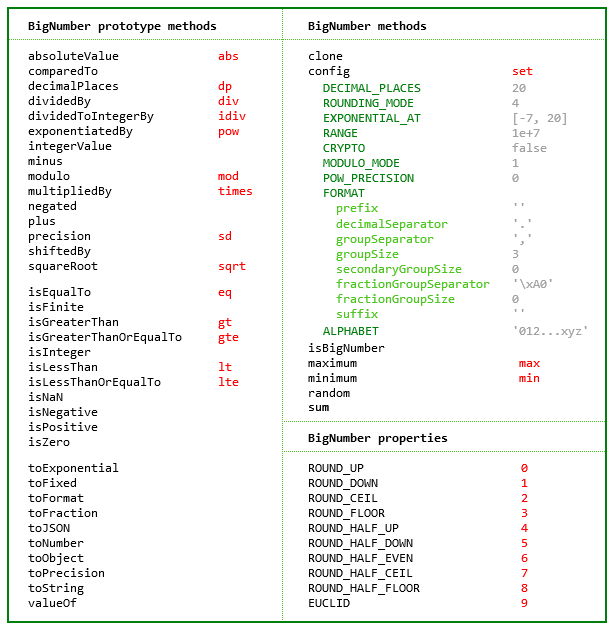
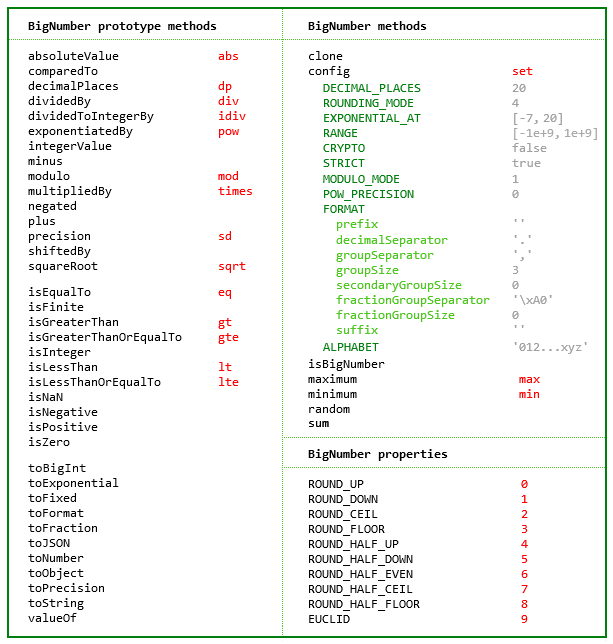
v11.0.0

diff --git a/index.html b/index.html
@@ -58,7 +58,7 @@ li span{float:right;margin-right:10px;color:#c0c0c0}
 
   <div class="nav">
 
-    <b>v10.0</b>
+    <b>v11.0</b>
 
 	<a class='nav-title' href="#">API</a>
 
@@ -78,6 +78,7 @@ li span{float:right;margin-right:10px;color:#c0c0c0}
           <li><a href="#exponential-at">EXPONENTIAL_AT</a></li>
           <li><a href="#range"         >RANGE</a></li>
           <li><a href="#crypto"        >CRYPTO</a></li>
+          <li><a href="#strict"        >STRICT</a></li>
           <li><a href="#modulo-mode"   >MODULO_MODE</a></li>
           <li><a href="#pow-precision" >POW_PRECISION</a></li>
           <li><a href="#format"        >FORMAT</a></li>
@@ -166,7 +167,8 @@ li span{float:right;margin-right:10px;color:#c0c0c0}
 
     <p>A JavaScript library for arbitrary-precision arithmetic.</p>
     <p><a href="https://github.com/MikeMcl/bignumber.js">Hosted on GitHub</a>. </p>
-      <i>
+    <p>
+ 	  <i>
         The library is incorporated into this page, so it should be available in the console now.
       </i>
     </p>
@@ -241,13 +243,21 @@ new BigNumber('-0b10110100.1')             // '-180.5'
 new BigNumber('ff.8', 16)                  // '255.5'
 new BigNumber('0xff.8')                    // '255.5'</pre>
     <p>
+      String values may contain underscores as numeric separators.
+      Each underscore must be between two digits.
+    </p>
+    <pre>
+new BigNumber('1_000_000.000_5')           // '1000000.0005'
+new BigNumber('0xff_ff')                   // '65535'
+new BigNumber('1010_1111', 2)              // '175'</pre>
+    <p>
       If a base is specified, <code>n</code> is converted to a decimal BigNumber value rounded
       according to the current <a href='#decimal-places'><code>DECIMAL_PLACES</code></a> and
       <a href='#rounding-mode'><code>ROUNDING_MODE</code></a> settings.
     </p>
     <pre>BigNumber.config({ DECIMAL_PLACES: 5 })
 new BigNumber('xy.z', 36)                  // '1222.97222'</pre>
-    <p>An error is thrown if <code>base</code> is invalid. See <a href='#Errors'>Errors</a>.</p>
+    <p>An exception is thrown if <code>base</code> is invalid. See <a href='#Errors'>Errors</a>.</p>
     <p>
       There is no limit to the number of digits of a value of type <em>string</em> (other than
       that of JavaScript's maximum array size). See <a href='#range'><code>RANGE</code></a> to set
@@ -256,11 +266,16 @@ new BigNumber('xy.z', 36)                  // '1222.97222'</pre>
     <pre>
 new BigNumber('5032485723458348569331745.33434346346912144534543')
 new BigNumber('4.321e10000000')</pre>
-    <p>An error is thrown if <code>n</code> is invalid. See <a href='#Errors'>Errors</a>.</p>
+    <p>
+      If <code>n</code> is a value of an unsupported type or not a valid numeric value then a
+      BigNumber Error is thrown, unless <a href='#strict'>STRICT</a> is <code>false</code>,
+      whereupon a BigNumber with value <code>NaN</code> is returned.
+      See <a href='#strict'>STRICT</a> and <a href='#Errors'>Errors</a>.
+    </p>
     <pre>
-new BigNumber('.1*')                       // '[BigNumber Error] Not a number: .1*'
-new BigNumber('blurgh')                    // '[BigNumber Error] Not a number: blurgh'
-new BigNumber('9', 2)                      // '[BigNumber Error] Not a base 2 number: 9'</pre>
+new BigNumber('.1*')            // '[BigNumber Error] Not a number: .1*'
+new BigNumber('blurgh')         // '[BigNumber Error] Not a number: blurgh'
+new BigNumber('9', 2)           // '[BigNumber Error] Not a base 2 number: 9'</pre>
     <p>
       In advanced usage, a BigNumber can also be created from a plain object with <code>c</code>,
       <code>e</code> and <code>s</code> properties, representing its coefficient, exponent and
@@ -491,6 +506,41 @@ BigNumber.random()              // 0.54340758610486147524</pre>
 
 
 
+      <dt id="strict"><code><b>STRICT</b></code></dt>
+      <dd>
+        <i>boolean</i>: <code>true</code> or <code>false</code>.<br />
+        Default value: <code>true</code>
+      </dd>
+      <dd>
+        The value that determines whether an exception is thrown or a BigNumber with value
+        <code>NaN</code> is returned when an invalid value is passed to the constructor
+        or a method as the value of a BigNumber.
+      </dd>
+      <dd>
+        If <code>STRICT</code> is <code>true</code> then a BigNumber Error is thrown if the
+        value is not of type <code>BigNumber</code>, <code>number</code>, <code>string</code>,
+        or <code>BigInt</code>, or if the value is a string that is not a valid numeric value.
+      </dd>
+      <dd>
+        If <code>STRICT</code> is <code>false</code> then a BigNumber with value
+        <code>NaN</code> is returned if the value is not a valid numeric value.
+        Types unsupported when <code>STRICT</code> is <code>true</code> are first
+        converted to a string.
+      </dd>
+      <dd>  
+        See <a href='#Errors'>Errors</a>.  
+      </dd>
+      <dd>
+      <pre>BigNumber.config({ STRICT: false })
+x = new BigNumber('blurgh')
+x.toString()                    // 'NaN'
+
+BigNumber.config({ STRICT: true })
+new BigNumber('blurgh')         // '[BigNumber Error] Not a number: blurgh'</pre>
+      </dd>
+
+
+
       <dt id="modulo-mode"><code><b>MODULO_MODE</b></code></dt>
       <dd>
         <i>number</i>: integer, <code>0</code> to <code>9</code> inclusive<br />
@@ -655,6 +705,7 @@ BigNumber.config({
   EXPONENTIAL_AT: [-10, 20],
   RANGE: [-500, 500],
   CRYPTO: true,
+  STRICT: false,
   MODULO_MODE: BigNumber.ROUND_FLOOR,
   POW_PRECISION: 80,
   FORMAT: {
@@ -1655,12 +1706,17 @@ x.toFormat(3, BigNumber.ROUND_UP, fmt)    // '=> 12.34.56.789,124'</pre>
     <p>
       Returns an array of two BigNumbers representing the value of this BigNumber as a simple
       fraction with an integer numerator and an integer denominator. The denominator will be a
-      positive non-zero value less than or equal to <code>maximum_denominator</code>.
+      positive value less than or equal to <code>maximum_denominator</code>.
     </p>
     <p>
       If a <code>maximum_denominator</code> is not specified, or is <code>null</code> or
       <code>undefined</code>, the denominator will be the lowest value necessary to represent the
       number exactly.
+    </p>
+    <p>
+      If the value of this BigNumber is <code>Infinity</code>, <code>-Infinity</code>, or
+      <code>NaN</code>, the returned fraction is <code>[1, 0]</code>, <code>[-1, 0]</code>, or
+      <code>[0, 0]</code> respectively.
     </p>
     <p>
       Throws if <code>maximum_denominator</code> is invalid. See <a href='#Errors'>Errors</a>.
@@ -1675,7 +1731,12 @@ pi.toFraction(100000)           // '312689, 99532'
 pi.toFraction(10000)            // '355, 113'
 pi.toFraction(100)              // '311, 99'
 pi.toFraction(10)               // '22, 7'
-pi.toFraction(1)                // '3, 1'</pre>
+pi.toFraction(1)                // '3, 1'
+
+y = new BigNumber('-Infinity')
+y.toFraction()                  // '-1, 0'
+z = new BigNumber(NaN)
+z.toFraction()                  // '0, 0'</pre>
 
 
 
@@ -1935,9 +1996,9 @@ y.s                             // -1</pre>
 
 
     <h4 id='Errors'>Errors</h4>
-    <p>The table below shows the errors that are thrown.</p>
+    <p>The table below shows the exceptions that are thrown.</p>
     <p>
-      The errors are generic <code>Error</code> objects whose message begins
+      The exceptions are generic <code>Error</code> objects whose message begins
       <code>'[BigNumber Error]'</code>.
     </p>
     <table class='error-table'>
@@ -1979,7 +2040,7 @@ y.s                             // -1</pre>
         <td>String expected</td>
       </tr>
       <tr>
-        <td>Invalid argument</td>
+        <td>BigNumber, string, number, or BigInt expected</td>
       </tr>
       <tr>
         <td><code>clone</code></td>
@@ -2214,11 +2275,9 @@ z = x.multiply(y)                 // 4.1400000</pre>
   </div>
 
   <script>
-  /* bignumber.js v10.0.0 https://github.com/MikeMcl/bignumber.js/LICENCE.md (minified using terser v5.46.0) */
-  !function(){var e=function e(v){var N,O,y,b=M.prototype={constructor:M,toString:null,valueOf:null},E=new M(1),A=20,R=4,S=-7,P=21,_=-1e7,L=1e7,x=!1,T=1,I=0,D={prefix:"",groupSize:3,secondaryGroupSize:0,groupSeparator:",",decimalSeparator:".",fractionGroupSize:0,fractionGroupSeparator:" ",suffix:""},C="0123456789abcdefghijklmnopqrstuvwxyz";function M(e,n){var t,o,u,f,c,l,a,h,g=this;if(!(g instanceof M))return new M(e,n);if(h=typeof e,null==n){if(B(e))return g.s=e.s,void(!e.c||e.e>L?g.c=g.e=null:e.e<_?g.c=[g.e=0]:(g.e=e.e,g.c=e.c.slice()));if("number"==h){if(0*e!=0)return g.s=isNaN(e)?null:e<0?-1:1,void(g.c=g.e=null);if(g.s=1/e<0?(e=-e,-1):1,e===~~e){for(f=0,c=e;c>=10;c/=10,f++);return void(f>L?g.c=g.e=null:(g.e=f,g.c=[e]))}a=String(e)}else{if("string"==h){if(a=e,!r.test(a))return y(g,a)}else{if("bigint"!=h)throw Error(i+"Invalid argument: "+e);a=String(e)}g.s=45==a.charCodeAt(0)?(a=a.slice(1),-1):1}(f=a.indexOf("."))>-1&&(a=a.replace(".","")),(c=a.search(/e/i))>0?(f<0&&(f=c),f+=+a.slice(c+1),a=a.substring(0,c)):f<0&&(f=a.length)}else{if("string"!=h)throw Error(i+"String expected: "+e);for(p(n,2,C.length,"Base"),a=e,g.s=45===a.charCodeAt(0)?(a=a.slice(1),-1):1,t=C.slice(0,n),f=c=0,l=a.length;c<l;c++)if(t.indexOf(o=a.charAt(c))<0){if("."==o){if(c>f){f=l;continue}}else if(!u&&(a==a.toUpperCase()&&(a=a.toLowerCase())||a==a.toLowerCase()&&(a=a.toUpperCase()))){u=!0,c=-1,f=0;continue}return y(g,e,n)}(f=(a=O(a,n,10,g.s)).indexOf("."))>-1?a=a.replace(".",""):f=a.length}for(c=0;48===a.charCodeAt(c);c++);for(l=a.length;48===a.charCodeAt(--l););if(a=a.slice(c,++l))if(l-=c,(f=f-c-1)>L)g.c=g.e=null;else if(f<_)g.c=[g.e=0];else{if(g.e=f,g.c=[],c=(f+1)%s,f<0&&(c+=s),c<l){for(c&&g.c.push(+a.slice(0,c)),l-=s;c<l;)g.c.push(+a.slice(c,c+=s));c=s-(a=a.slice(c)).length}else c-=l;for(;c--;a+="0");g.c.push(+a)}else g.c=[g.e=0]}function U(e,r,n,t){var i,o,s,u,f;if(null==n?n=R:p(n,0,8),!e.c)return e.toString();if(i=e.c[0],s=e.e,null==r)f=h(e.c),f=1==t||2==t&&(s<=S||s>=P)?d(f,s):m(f,s,"0");else if(o=(e=j(new M(e),r,n)).e,u=(f=h(e.c)).length,1==t||2==t&&(r<=o||o<=S)){for(;u<r;f+="0",u++);f=d(f,o)}else if(r-=s+(2===t&&o>s),f=m(f,o,"0"),o+1>u){if(--r>0)for(f+=".";r--;f+="0");}else if((r+=o-u)>0)for(o+1==u&&(f+=".");r--;f+="0");return e.s<0&&i?"-"+f:f}function B(e){return e instanceof M||!!e&&!0===e._isBigNumber}function F(e,r){for(var n,t,i=1,o=new M(e[0]);i<e.length;i++)(!(t=new M(e[i])).s||(n=g(o,t))===r||0===n&&o.s===r)&&(o=t);return o}function G(e,r,n){for(var t=1,i=r.length;!r[--i];r.pop());for(i=r[0];i>=10;i/=10,t++);return(n=t+n*s-1)>L?e.c=e.e=null:n<_?e.c=[e.e=0]:(e.e=n,e.c=r),e}function j(e,r,i,u){var c,l,a,h,g,p,w,d=e.c,m=f;if(d){e:{for(c=1,h=d[0];h>=10;h/=10,c++);if((l=r-c)<0)l+=s,a=r,g=d[p=0],w=t(g/m[c-a-1]%10);else if((p=n((l+1)/s))>=d.length){if(!u)break e;for(;d.length<=p;d.push(0));g=w=0,c=1,a=(l%=s)-s+1}else{for(g=h=d[p],c=1;h>=10;h/=10,c++);w=(a=(l%=s)-s+c)<0?0:t(g/m[c-a-1]%10)}if(u=u||r<0||null!=d[p+1]||(a<0?g:g%m[c-a-1]),u=i<4?(w||u)&&(0==i||i==(e.s<0?3:2)):w>5||5==w&&(4==i||u||6==i&&(l>0?a>0?g/m[c-a]:0:d[p-1])%10&1||i==(e.s<0?8:7)),r<1||!d[0])return d.length=0,u?(r-=e.e+1,d[0]=m[(s-r%s)%s],e.e=-r||0):d[0]=e.e=0,e;if(0==l?(d.length=p,h=1,p--):(d.length=p+1,h=m[s-l],d[p]=a>0?t(g/m[c-a]%m[a])*h:0),u)for(;;){if(0==p){for(l=1,a=d[0];a>=10;a/=10,l++);for(a=d[0]+=h,h=1;a>=10;a/=10,h++);l!=h&&(e.e++,d[0]==o&&(d[0]=1));break}if(d[p]+=h,d[p]!=o)break;d[p--]=0,h=1}for(l=d.length;0===d[--l];d.pop());}e.e>L?e.c=e.e=null:e.e<_&&(e.c=[e.e=0])}return e}function k(e){var r,n=e.e;return null===n?e.toString():(r=h(e.c),r=n<=S||n>=P?d(r,n):m(r,n,"0"),e.s<0?"-"+r:r)}M.clone=e,M.ROUND_UP=0,M.ROUND_DOWN=1,M.ROUND_CEIL=2,M.ROUND_FLOOR=3,M.ROUND_HALF_UP=4,M.ROUND_HALF_DOWN=5,M.ROUND_HALF_EVEN=6,M.ROUND_HALF_CEIL=7,M.ROUND_HALF_FLOOR=8,M.EUCLID=9,M.config=M.set=function(e){var r,n;if(null!=e){if("object"!=typeof e)throw Error(i+"Object expected: "+e);if(e.hasOwnProperty(r="DECIMAL_PLACES")&&(p(n=e[r],0,l,r),A=n),e.hasOwnProperty(r="ROUNDING_MODE")&&(p(n=e[r],0,8,r),R=n),e.hasOwnProperty(r="EXPONENTIAL_AT")&&((n=e[r])&&n.pop?(p(n[0],-l,0,r),p(n[1],0,l,r),S=n[0],P=n[1]):(p(n,-l,l,r),S=-(P=n<0?-n:n))),e.hasOwnProperty(r="RANGE"))if((n=e[r])&&n.pop)p(n[0],-l,-1,r),p(n[1],1,l,r),_=n[0],L=n[1];else{if(p(n,-l,l,r),!n)throw Error(i+r+" cannot be zero: "+n);_=-(L=n<0?-n:n)}if(e.hasOwnProperty(r="CRYPTO")){if((n=e[r])!==!!n)throw Error(i+r+" not true or false: "+n);if(n){if("undefined"==typeof crypto||!crypto||!crypto.getRandomValues&&!crypto.randomBytes)throw x=!n,Error(i+"crypto unavailable");x=n}else x=n}if(e.hasOwnProperty(r="MODULO_MODE")&&(p(n=e[r],0,9,r),T=n),e.hasOwnProperty(r="POW_PRECISION")&&(p(n=e[r],0,l,r),I=n),e.hasOwnProperty(r="FORMAT")){if("object"!=typeof(n=e[r]))throw Error(i+r+" not an object: "+n);D=n}if(e.hasOwnProperty(r="ALPHABET")){if("string"!=typeof(n=e[r])||/^.?$|[+\-.\s]|(.).*\1/.test(n))throw Error(i+r+" invalid: "+n);C=n}}return{DECIMAL_PLACES:A,ROUNDING_MODE:R,EXPONENTIAL_AT:[S,P],RANGE:[_,L],CRYPTO:x,MODULO_MODE:T,POW_PRECISION:I,FORMAT:D,ALPHABET:C}},M.isBigNumber=function(e){if(!B(e))return!1;var r,n,i=e.c,u=e.e,f=e.s;if("[object Array]"!={}.toString.call(i))return null===i&&null===u&&(null===f||1===f||-1===f);if(1!==f&&-1!==f||u<-l||u>l||u!==t(u))return!1;if(0===i[0])return 0===u&&1===i.length;if((r=(u+1)%s)<1&&(r+=s),String(i[0]).length!==r)return!1;for(r=0;r<i.length;r++)if((n=i[r])<0||n>=o||n!==t(n))return!1;return 0!==n},M.maximum=M.max=function(){return F(arguments,-1)},M.minimum=M.min=function(){return F(arguments,1)},M.random=function(){var e=9007199254740992,r=Math.random()*e&2097151?function(){return t(Math.random()*e)}:function(){return 8388608*(1073741824*Math.random()|0)+(8388608*Math.random()|0)};return function(e){var o,u,c,a,h,g=0,w=[],d=new M(E);if(null==e?e=A:p(e,0,l),a=n(e/s),x)if(crypto.getRandomValues){for(o=crypto.getRandomValues(new Uint32Array(a*=2));g<a;)(h=131072*o[g]+(o[g+1]>>>11))>=9e15?(u=crypto.getRandomValues(new Uint32Array(2)),o[g]=u[0],o[g+1]=u[1]):(w.push(h%1e14),g+=2);g=a/2}else{if(!crypto.randomBytes)throw x=!1,Error(i+"crypto unavailable");for(o=crypto.randomBytes(a*=7);g<a;)(h=281474976710656*(31&o[g])+1099511627776*o[g+1]+4294967296*o[g+2]+16777216*o[g+3]+(o[g+4]<<16)+(o[g+5]<<8)+o[g+6])>=9e15?crypto.randomBytes(7).copy(o,g):(w.push(h%1e14),g+=7);g=a/7}if(!x)for(;g<a;)(h=r())<9e15&&(w[g++]=h%1e14);for(a=w[--g],e%=s,a&&e&&(h=f[s-e],w[g]=t(a/h)*h);0===w[g];w.pop(),g--);if(g<0)w=[c=0];else{for(c=-1;0===w[0];w.splice(0,1),c-=s);for(g=1,h=w[0];h>=10;h/=10,g++);g<s&&(c-=s-g)}return d.e=c,d.c=w,d}}(),M.sum=function(){for(var e=1,r=arguments,n=new M(r[0]);e<r.length;)n=n.plus(r[e++]);return n},O=function(){var e="0123456789";function r(e,r,n,t){for(var i,o,s=[0],u=0,f=e.length;u<f;){for(o=s.length;o--;s[o]*=r);for(s[0]+=t.indexOf(e.charAt(u++)),i=0;i<s.length;i++)s[i]>n-1&&(null==s[i+1]&&(s[i+1]=0),s[i+1]+=s[i]/n|0,s[i]%=n)}return s.reverse()}return function(n,t,i,o,s){var u,f,c,l,a,g,p,w,d=n.indexOf("."),v=A,O=R;for(d>=0&&(l=I,I=0,n=n.replace(".",""),g=(w=new M(t)).pow(n.length-d),I=l,w.c=r(m(h(g.c),g.e,"0"),10,i,e),w.e=w.c.length),c=l=(p=r(n,t,i,s?(u=C,e):(u=e,C))).length;0==p[--l];p.pop());if(!p[0])return u.charAt(0);if(d<0?--c:(g.c=p,g.e=c,g.s=o,p=(g=N(g,w,v,O,i)).c,a=g.r,c=g.e),d=p[f=c+v+1],l=i/2,a=a||f<0||null!=p[f+1],a=O<4?(null!=d||a)&&(0==O||O==(g.s<0?3:2)):d>l||d==l&&(4==O||a||6==O&&1&p[f-1]||O==(g.s<0?8:7)),f<1||!p[0])n=a?m(u.charAt(1),-v,u.charAt(0)):u.charAt(0);else{if(p.length=f,a)for(--i;++p[--f]>i;)p[f]=0,f||(++c,p=[1].concat(p));for(l=p.length;!p[--l];);for(d=0,n="";d<=l;n+=u.charAt(p[d++]));n=m(n,c,u.charAt(0))}return n}}(),N=function(){function e(e,r,n){var t,i,o,s,u=0,f=e.length,l=r%c,a=r/c|0;for(e=e.slice();f--;)u=((i=l*(o=e[f]%c)+(t=a*o+(s=e[f]/c|0)*l)%c*c+u)/n|0)+(t/c|0)+a*s,e[f]=i%n;return u&&(e=[u].concat(e)),e}function r(e,r,n,t){var i,o;if(n!=t)o=n>t?1:-1;else for(i=o=0;i<n;i++)if(e[i]!=r[i]){o=e[i]>r[i]?1:-1;break}return o}function n(e,r,n,t){for(var i=0;n--;)e[n]-=i,i=e[n]<r[n]?1:0,e[n]=i*t+e[n]-r[n];for(;!e[0]&&e.length>1;e.splice(0,1));}return function(i,u,f,c,l){var h,g,p,w,d,m,v,N,O,y,b,E,A,R,S,P,_,L=i.s==u.s?1:-1,x=i.c,T=u.c;if(!(x&&x[0]&&T&&T[0]))return new M(i.s&&u.s&&(x?!T||x[0]!=T[0]:T)?x&&0==x[0]||!T?0*L:L/0:NaN);for(O=(N=new M(L)).c=[],L=f+(g=i.e-u.e)+1,l||(l=o,g=a(i.e/s)-a(u.e/s),L=L/s|0),p=0;T[p]==(x[p]||0);p++);if(T[p]>(x[p]||0)&&g--,L<0)O.push(1),w=!0;else{for(R=x.length,P=T.length,p=0,L+=2,(d=t(l/(T[0]+1)))>1&&(T=e(T,d,l),x=e(x,d,l),P=T.length,R=x.length),A=P,b=(y=x.slice(0,P)).length;b<P;y[b++]=0);_=T.slice(),_=[0].concat(_),S=T[0],T[1]>=l/2&&S++;do{if(d=0,(h=r(T,y,P,b))<0){if(E=y[0],P!=b&&(E=E*l+(y[1]||0)),(d=t(E/S))>1)for(d>=l&&(d=l-1),v=(m=e(T,d,l)).length,b=y.length;1==r(m,y,v,b);)d--,n(m,P<v?_:T,v,l),v=m.length,h=1;else 0==d&&(h=d=1),v=(m=T.slice()).length;if(v<b&&(m=[0].concat(m)),n(y,m,b,l),b=y.length,-1==h)for(;r(T,y,P,b)<1;)d++,n(y,P<b?_:T,b,l),b=y.length}else 0===h&&(d++,y=[0]);O[p++]=d,y[0]?y[b++]=x[A]||0:(y=[x[A]],b=1)}while((A++<R||null!=y[0])&&L--);w=null!=y[0],O[0]||O.splice(0,1)}if(l==o){for(p=1,L=O[0];L>=10;L/=10,p++);j(N,f+(N.e=p+g*s-1)+1,c,w)}else N.e=g,N.r=+w;return N}}(),y=function(){var e=/^(-?)0([xbo])(?=\w[\w.]*$)/i,r=/^([^.]+)\.$/,n=/^\.([^.]+)$/,t=/^-?(Infinity|NaN)$/,o=/^\s*\+(?=[\w.])|^\s+|\s+$/g;return function(s,u,f){var c,l=u.replace(o,"");if(t.test(l))return s.s=isNaN(l)?null:l<0?-1:1,void(s.c=s.e=null);if(l=l.replace(e,function(e,r,n){return c="x"==(n=n.toLowerCase())?16:"b"==n?2:8,f&&f!=c?e:r}),f&&(c=f,l=l.replace(r,"$1").replace(n,"0.$1")),u!=l)return new M(l,c);throw Error(i+"Not a"+(f?" base "+f:"")+" number: "+u)}}(),b.absoluteValue=b.abs=function(){var e=new M(this);return e.s<0&&(e.s=1),e},b.comparedTo=function(e,r){return g(this,new M(e,r))},b.decimalPlaces=b.dp=function(e,r){var n,t,i,o=this;if(null!=e)return p(e,0,l),null==r?r=R:p(r,0,8),j(new M(o),e+o.e+1,r);if(!(n=o.c))return null;if(t=((i=n.length-1)-a(this.e/s))*s,i=n[i])for(;i%10==0;i/=10,t--);return t<0&&(t=0),t},b.dividedBy=b.div=function(e,r){return N(this,new M(e,r),A,R)},b.dividedToIntegerBy=b.idiv=function(e,r){return N(this,new M(e,r),0,1)},b.exponentiatedBy=b.pow=function(e,r){var o,u,f,c,l,a,h,g,p=this;if((e=new M(e)).c&&!e.isInteger())throw Error(i+"Exponent not an integer: "+k(e));if(null!=r&&(r=new M(r)),l=e.e>14,!p.c||!p.c[0]||1==p.c[0]&&!p.e&&1==p.c.length||!e.c||!e.c[0])return g=new M(Math.pow(+k(p),l?e.s*(2-w(e)):+k(e))),r?g.mod(r):g;if(a=e.s<0,r){if(r.c?!r.c[0]:!r.s)return new M(NaN);(u=!a&&p.isInteger()&&r.isInteger())&&(p=p.mod(r))}else{if(e.e>9&&(p.e>0||p.e<-1||(0==p.e?p.c[0]>1||l&&p.c[1]>=24e7:p.c[0]<8e13||l&&p.c[0]<=9999975e7)))return c=p.s<0&&w(e)?-0:0,p.e>-1&&(c=1/c),new M(a?1/c:c);I&&(c=n(I/s+2))}for(l?(o=new M(.5),a&&(e.s=1),h=w(e)):h=(f=Math.abs(+k(e)))%2,g=new M(E);;){if(h){if(!(g=g.times(p)).c)break;c?g.c.length>c&&(g.c.length=c):u&&(g=g.mod(r))}if(f){if(0===(f=t(f/2)))break;h=f%2}else if(j(e=e.times(o),e.e+1,1),e.e>14)h=w(e);else{if(0===(f=+k(e)))break;h=f%2}p=p.times(p),c?p.c&&p.c.length>c&&(p.c.length=c):u&&(p=p.mod(r))}return u?g:(a&&(g=E.div(g)),r?g.mod(r):c?j(g,I,R,void 0):g)},b.integerValue=function(e){var r=new M(this);return null==e?e=R:p(e,0,8),j(r,r.e+1,e)},b.isEqualTo=b.eq=function(e,r){return 0===g(this,new M(e,r))},b.isFinite=function(){return!!this.c},b.isGreaterThan=b.gt=function(e,r){return g(this,new M(e,r))>0},b.isGreaterThanOrEqualTo=b.gte=function(e,r){return 1===(r=g(this,new M(e,r)))||0===r},b.isInteger=function(){return!!this.c&&a(this.e/s)>this.c.length-2},b.isLessThan=b.lt=function(e,r){return g(this,new M(e,r))<0},b.isLessThanOrEqualTo=b.lte=function(e,r){return-1===(r=g(this,new M(e,r)))||0===r},b.isNaN=function(){return!this.s},b.isNegative=function(){return this.s<0},b.isPositive=function(){return this.s>0},b.isZero=function(){return!!this.c&&0==this.c[0]},b.minus=function(e,r){var n,t,i,u,f=this,c=f.s;if(r=(e=new M(e,r)).s,!c||!r)return new M(NaN);if(c!=r)return e.s=-r,f.plus(e);var l=f.e/s,h=e.e/s,g=f.c,p=e.c;if(!l||!h){if(!g||!p)return g?(e.s=-r,e):new M(p?f:NaN);if(!g[0]||!p[0])return p[0]?(e.s=-r,e):new M(g[0]?f:3==R?-0:0)}if(l=a(l),h=a(h),g=g.slice(),c=l-h){for((u=c<0)?(c=-c,i=g):(h=l,i=p),i.reverse(),r=c;r--;i.push(0));i.reverse()}else for(t=(u=(c=g.length)<(r=p.length))?c:r,c=r=0;r<t;r++)if(g[r]!=p[r]){u=g[r]<p[r];break}if(u&&(i=g,g=p,p=i,e.s=-e.s),(r=(t=p.length)-(n=g.length))>0)for(;r--;g[n++]=0);for(r=o-1;t>c;){if(g[--t]<p[t]){for(n=t;n&&!g[--n];g[n]=r);--g[n],g[t]+=o}g[t]-=p[t]}for(;0==g[0];g.splice(0,1),--h);return g[0]?G(e,g,h):(e.s=3==R?-1:1,e.c=[e.e=0],e)},b.modulo=b.mod=function(e,r){var n,t,i=this;return e=new M(e,r),!i.c||!e.s||e.c&&!e.c[0]?new M(NaN):!e.c||i.c&&!i.c[0]?new M(i):(9==T?(t=e.s,e.s=1,n=N(i,e,0,3),e.s=t,n.s*=t):n=N(i,e,0,T),(e=i.minus(n.times(e))).c[0]||1!=T||(e.s=i.s),e)},b.multipliedBy=b.times=function(e,r){var n,t,i,u,f,l,h,g,p,w,d,m,v,N,O,y=this,b=y.c,E=(e=new M(e,r)).c;if(!(b&&E&&b[0]&&E[0]))return!y.s||!e.s||b&&!b[0]&&!E||E&&!E[0]&&!b?e.c=e.e=e.s=null:(e.s*=y.s,b&&E?(e.c=[0],e.e=0):e.c=e.e=null),e;for(t=a(y.e/s)+a(e.e/s),e.s*=y.s,(h=b.length)<(w=E.length)&&(v=b,b=E,E=v,i=h,h=w,w=i),i=h+w,v=[];i--;v.push(0));for(N=o,O=c,i=w;--i>=0;){for(n=0,d=E[i]%O,m=E[i]/O|0,u=i+(f=h);u>i;)n=((g=d*(g=b[--f]%O)+(l=m*g+(p=b[f]/O|0)*d)%O*O+v[u]+n)/N|0)+(l/O|0)+m*p,v[u--]=g%N;v[u]=n}return n?++t:v.splice(0,1),G(e,v,t)},b.negated=function(){var e=new M(this);return e.s=-e.s||null,e},b.plus=function(e,r){var n,t=this,i=t.s;if(r=(e=new M(e,r)).s,!i||!r)return new M(NaN);if(i!=r)return e.s=-r,t.minus(e);var u=t.e/s,f=e.e/s,c=t.c,l=e.c;if(!u||!f){if(!c||!l)return new M(i/0);if(!c[0]||!l[0])return l[0]?e:new M(c[0]?t:0*i)}if(u=a(u),f=a(f),c=c.slice(),i=u-f){for(i>0?(f=u,n=l):(i=-i,n=c),n.reverse();i--;n.push(0));n.reverse()}for((i=c.length)-(r=l.length)<0&&(n=l,l=c,c=n,r=i),i=0;r;)i=(c[--r]=c[r]+l[r]+i)/o|0,c[r]=o===c[r]?0:c[r]%o;return i&&(c=[i].concat(c),++f),G(e,c,f)},b.precision=b.sd=function(e,r){var n,t,i,o=this;if(null!=e&&e!==!!e)return p(e,1,l),null==r?r=R:p(r,0,8),j(new M(o),e,r);if(!(n=o.c))return null;if(t=(i=n.length-1)*s+1,i=n[i]){for(;i%10==0;i/=10,t--);for(i=n[0];i>=10;i/=10,t++);}return e&&o.e+1>t&&(t=o.e+1),t},b.shiftedBy=function(e){return p(e,-u,u),this.times("1e"+e)},b.squareRoot=b.sqrt=function(){var e,r,n,t,i,o=this,s=o.c,u=o.s,f=o.e,c=A+4,l=new M("0.5");if(1!==u||!s||!s[0])return new M(!u||u<0&&(!s||s[0])?NaN:s?o:1/0);if(0==(u=Math.sqrt(+k(o)))||u==1/0?(((r=h(s)).length+f)%2==0&&(r+="0"),u=Math.sqrt(+r),f=a((f+1)/2)-(f<0||f%2),n=new M(r=u==1/0?"5e"+f:(r=u.toExponential()).slice(0,r.indexOf("e")+1)+f)):n=new M(u+""),n.c[0])for((u=(f=n.e)+c)<3&&(u=0);;)if(i=n,n=l.times(i.plus(N(o,i,c,1))),h(i.c).slice(0,u)===(r=h(n.c)).slice(0,u)){if(n.e<f&&--u,"9999"!=(r=r.slice(u-3,u+1))&&(t||"4999"!=r)){+r&&(+r.slice(1)||"5"!=r.charAt(0))||(j(n,n.e+A+2,1),e=!n.times(n).eq(o));break}if(!t&&(j(i,i.e+A+2,0),i.times(i).eq(o))){n=i;break}c+=4,u+=4,t=1}return j(n,n.e+A+1,R,e)},b.toExponential=function(e,r){return null!=e&&(p(e,0,l),e++),U(this,e,r,1)},b.toFixed=function(e,r){return null!=e&&(p(e,0,l),e=e+this.e+1),U(this,e,r)},b.toFormat=function(e,r,n){var t,o=this;if(null==n)null!=e&&r&&"object"==typeof r?(n=r,r=null):e&&"object"==typeof e?(n=e,e=r=null):n=D;else if("object"!=typeof n)throw Error(i+"Argument not an object: "+n);if(t=o.toFixed(e,r),o.c){var s,u=t.split("."),f=+n.groupSize,c=+n.secondaryGroupSize,l=n.groupSeparator||"",a=u[0],h=u[1],g=o.s<0,p=g?a.slice(1):a,w=p.length;if(c&&(s=f,f=c,c=s,w-=s),f>0&&w>0){for(s=w%f||f,a=p.substr(0,s);s<w;s+=f)a+=l+p.substr(s,f);c>0&&(a+=l+p.slice(s)),g&&(a="-"+a)}t=h?a+(n.decimalSeparator||"")+((c=+n.fractionGroupSize)?h.replace(new RegExp("\\d{"+c+"}\\B","g"),"$&"+(n.fractionGroupSeparator||"")):h):a}return(n.prefix||"")+t+(n.suffix||"")},b.toFraction=function(e){var r,n,t,o,u,c,l,a,g,p,w,d,m=this,v=m.c;if(null!=e&&(!(l=new M(e)).isInteger()&&(l.c||1!==l.s)||l.lt(E)))throw Error(i+"Argument "+(l.isInteger()?"out of range: ":"not an integer: ")+k(l));if(!v)return new M(m);for(r=new M(E),g=n=new M(E),t=a=new M(E),d=h(v),u=r.e=d.length-m.e-1,r.c[0]=f[(c=u%s)<0?s+c:c],e=!e||l.comparedTo(r)>0?u>0?r:g:l,c=L,L=1/0,l=new M(d),a.c[0]=0;p=N(l,r,0,1),1!=(o=n.plus(p.times(t))).comparedTo(e);)n=t,t=o,g=a.plus(p.times(o=g)),a=o,r=l.minus(p.times(o=r)),l=o;return o=N(e.minus(n),t,0,1),a=a.plus(o.times(g)),n=n.plus(o.times(t)),a.s=g.s=m.s,w=N(g,t,u*=2,R).minus(m).abs().comparedTo(N(a,n,u,R).minus(m).abs())<1?[g,t]:[a,n],L=c,w},b.toNumber=function(){return+k(this)},b.toObject=function(){var e=this;return{c:e.c?e.c.slice():null,e:e.e,s:e.s}},b.toPrecision=function(e,r){return null!=e&&p(e,1,l),U(this,e,r,2)},b.toString=function(e){var r,n=this,t=n.s,i=n.e;return null===i?t?(r="Infinity",t<0&&(r="-"+r)):r="NaN":(null==e?r=i<=S||i>=P?d(h(n.c),i):m(h(n.c),i,"0"):(p(e,2,C.length,"Base"),r=O(m(h(n.c),i,"0"),10,e,t,!0)),t<0&&n.c[0]&&(r="-"+r)),r},b.valueOf=b.toJSON=function(){return k(this)},b._isBigNumber=!0,null!=v&&M.set(v);return M}(),r=/^-?(?:\d+(?:\.\d*)?|\.\d+)(?:e[+-]?\d+)?$/i,n=Math.ceil,t=Math.floor,i="[BigNumber Error] ",o=1e14,s=14,u=9007199254740991,f=[1,10,100,1e3,1e4,1e5,1e6,1e7,1e8,1e9,1e10,1e11,1e12,1e13],c=1e7,l=1e9;function a(e){var r=0|e;return e>0||e===r?r:r-1}function h(e){for(var r,n,t=1,i=e.length,o=e[0]+"";t<i;){for(r=e[t++]+"",n=s-r.length;n--;r="0"+r);o+=r}for(i=o.length;48===o.charCodeAt(--i););return o.slice(0,i+1||1)}function g(e,r){var n,t,i=e.c,o=r.c,s=e.s,u=r.s,f=e.e,c=r.e;if(!s||!u)return null;if(n=i&&!i[0],t=o&&!o[0],n||t)return n?t?0:-u:s;if(s!=u)return s;if(n=s<0,t=f==c,!i||!o)return t?0:!i^n?1:-1;if(!t)return f>c^n?1:-1;for(u=(f=i.length)<(c=o.length)?f:c,s=0;s<u;s++)if(i[s]!=o[s])return i[s]>o[s]^n?1:-1;return f==c?0:f>c^n?1:-1}function p(e,r,n,o){if(e<r||e>n||e!==t(e))throw Error(i+(o||"Argument")+("number"==typeof e?e<r||e>n?" out of range: ":" not an integer: ":" not a primitive number: ")+String(e))}function w(e){var r=e.c.length-1;return a(e.e/s)==r&&e.c[r]%2!=0}function d(e,r){return(e.length>1?e.charAt(0)+"."+e.slice(1):e)+(r<0?"e":"e+")+r}function m(e,r,n){var t,i;if(r<0){for(i=n+".";++r;i+=n);e=i+e}else if(++r>(t=e.length)){for(i=n,r-=t;--r;i+=n);e+=i}else r<t&&(e=e.slice(0,r)+"."+e.slice(r));return e}("undefined"!=typeof globalThis?globalThis:"undefined"!=typeof window?window:self).BigNumber=e}();
-  </script>
+/* bignumber.js v11.0.0 (licence: MIT) https://github.com/MikeMcl/bignumber.js (minification: terser v5.46.1) */
+!function(){var e=function e(v){var N,O,b,y,E=/^(-?)0([xbo])(?=[^.])/i,A=/^-?(Infinity|NaN)$/,S=/^\s*\+(?!-)|^\s+|\s+$/g,R=G.prototype={constructor:G,toString:null,valueOf:null},T=new G(1),_=20,P=4,C=-7,L=21,I=-1e7,x=1e7,D=!1,B=!0,U=1,M=0,F={prefix:"",groupSize:3,secondaryGroupSize:0,groupSeparator:",",decimalSeparator:".",fractionGroupSize:0,fractionGroupSeparator:" ",suffix:""},k="0123456789abcdefghijklmnopqrstuvwxyz";function G(e,n){var t,o,s,u,f=this;if(!(f instanceof G))return new G(e,n);if(u=typeof e,null==n){if(q(e))return f.s=e.s,void(!e.c||e.e>x?f.c=f.e=null:e.e<I?f.c=[f.e=0]:(f.e=e.e,f.c=e.c.slice()));if("number"==u){if(0*e!=0)return f.s=isNaN(e)?null:e<0?-1:1,void(f.c=f.e=null);if(f.s=1/e<0?(e=-e,-1):1,e===~~e){for(t=0,o=e;o>=10;o/=10,t++);return void(t>x?f.c=f.e=null:(f.e=t,f.c=[e]))}return b(f,String(e))}if("bigint"==u)return f.s=e<0?(e=-e,-1):1,b(f,String(e));if("string"==u)s=e;else{if(B)throw Error(i+"BigNumber, string, number, or BigInt expected: "+e);s=String(e)}if(r.test(s))return f.s=45==s.charCodeAt(0)?(s=s.slice(1),-1):1,b(f,s);if(s=s.replace(S,""),A.test(s))return f.s=isNaN(s)?null:s<0?-1:1,void(f.c=f.e=null);if(s=s.replace(E,function(e,r,t){return n="x"==(t=t.toLowerCase())?16:"b"==t?2:8,r}),n)return y(f,s,n,e);if(s=s.replace(/(\d)_(?=\d)/g,"$1"),r.test(s))return f.s=45==s.charCodeAt(0)?(s=s.slice(1),-1):1,b(f,s);if(B)throw Error(i+"Not a number: "+e);f.s=f.c=f.e=null}else{if("string"!=u){if(B)throw Error(i+"String expected: "+e);e=String(e)}p(n,2,k.length,"Base"),y(f,e.replace(S,""),n,e)}}function j(e,r,n,t){var i,o,s,u,f;if(null==n?n=P:p(n,0,8),!e.c)return e.toString();if(i=e.c[0],s=e.e,null==r)f=h(e.c),f=1==t||2==t&&(s<=C||s>=L)?d(f,s):m(f,s,"0");else if(o=(e=V(new G(e),r,n)).e,u=(f=h(e.c)).length,1==t||2==t&&(r<=o||o<=C)){for(;u<r;f+="0",u++);f=d(f,o)}else if(r-=s+(2===t&&o>s),f=m(f,o,"0"),o+1>u){if(--r>0)for(f+=".";r--;f+="0");}else if((r+=o-u)>0)for(o+1==u&&(f+=".");r--;f+="0");return e.s<0&&i?"-"+f:f}function q(e){return e instanceof G||!!e&&!0===e._isBigNumber}function z(e,r){for(var n,t,i=1,o=new G(e[0]);i<e.length;i++)(!(t=new G(e[i])).s||(n=g(o,t))===r||0===n&&o.s===r)&&(o=t);return o}function H(e,r,n){for(var t=1,i=r.length;!r[--i];r.pop());for(i=r[0];i>=10;i/=10,t++);return(n=t+n*s-1)>x?e.c=e.e=null:n<I?e.c=[e.e=0]:(e.e=n,e.c=r),e}function V(e,r,i,u){var c,l,a,h,g,p,w,d=e.c,m=f;if(d){e:{for(c=1,h=d[0];h>=10;h/=10,c++);if((l=r-c)<0)l+=s,a=r,g=d[p=0],w=t(g/m[c-a-1]%10);else if((p=n((l+1)/s))>=d.length){if(!u)break e;for(;d.length<=p;d.push(0));g=w=0,c=1,a=(l%=s)-s+1}else{for(g=h=d[p],c=1;h>=10;h/=10,c++);w=(a=(l%=s)-s+c)<0?0:t(g/m[c-a-1]%10)}if(u=u||r<0||null!=d[p+1]||(a<0?g:g%m[c-a-1]),u=i<4?(w||u)&&(0==i||i==(e.s<0?3:2)):w>5||5==w&&(4==i||u||6==i&&(l>0?a>0?g/m[c-a]:0:d[p-1])%10&1||i==(e.s<0?8:7)),r<1||!d[0])return d.length=0,u?(r-=e.e+1,d[0]=m[(s-r%s)%s],e.e=-r||0):d[0]=e.e=0,e;if(0==l?(d.length=p,h=1,p--):(d.length=p+1,h=m[s-l],d[p]=a>0?t(g/m[c-a]%m[a])*h:0),u)for(;;){if(0==p){for(l=1,a=d[0];a>=10;a/=10,l++);for(a=d[0]+=h,h=1;a>=10;a/=10,h++);l!=h&&(e.e++,d[0]==o&&(d[0]=1));break}if(d[p]+=h,d[p]!=o)break;d[p--]=0,h=1}for(l=d.length;0===d[--l];d.pop());}e.e>x?e.c=e.e=null:e.e<I&&(e.c=[e.e=0])}return e}function $(e){var r,n=e.e;return null===n?e.toString():(r=h(e.c),r=n<=C||n>=L?d(r,n):m(r,n,"0"),e.s<0?"-"+r:r)}G.clone=e,G.ROUND_UP=0,G.ROUND_DOWN=1,G.ROUND_CEIL=2,G.ROUND_FLOOR=3,G.ROUND_HALF_UP=4,G.ROUND_HALF_DOWN=5,G.ROUND_HALF_EVEN=6,G.ROUND_HALF_CEIL=7,G.ROUND_HALF_FLOOR=8,G.EUCLID=9,G.config=G.set=function(e){var r,n;if(null!=e){if("object"!=typeof e)throw Error(i+"Object expected: "+e);if(e.hasOwnProperty(r="DECIMAL_PLACES")&&(p(n=e[r],0,l,r),_=n),e.hasOwnProperty(r="ROUNDING_MODE")&&(p(n=e[r],0,8,r),P=n),e.hasOwnProperty(r="EXPONENTIAL_AT")&&((n=e[r])&&n.pop?(p(n[0],-l,0,r),p(n[1],0,l,r),C=n[0],L=n[1]):(p(n,-l,l,r),C=-(L=n<0?-n:n))),e.hasOwnProperty(r="RANGE"))if((n=e[r])&&n.pop)p(n[0],-l,-1,r),p(n[1],1,l,r),I=n[0],x=n[1];else{if(p(n,-l,l,r),!n)throw Error(i+r+" cannot be zero: "+n);I=-(x=n<0?-n:n)}if(e.hasOwnProperty(r="CRYPTO")){if((n=e[r])!==!!n)throw Error(i+r+" not true or false: "+n);if(n){if("undefined"==typeof crypto||!crypto||!crypto.getRandomValues&&!crypto.randomBytes)throw D=!n,Error(i+"crypto unavailable");D=n}else D=n}if(e.hasOwnProperty(r="STRICT")){if((n=e[r])!==!!n)throw Error(i+r+" not true or false: "+n);B=n}if(e.hasOwnProperty(r="MODULO_MODE")&&(p(n=e[r],0,9,r),U=n),e.hasOwnProperty(r="POW_PRECISION")&&(p(n=e[r],0,l,r),M=n),e.hasOwnProperty(r="FORMAT")){if("object"!=typeof(n=e[r]))throw Error(i+r+" not an object: "+n);F=n}if(e.hasOwnProperty(r="ALPHABET")){if("string"!=typeof(n=e[r])||/^.?$|[+\-.\s]|(.).*\1/.test(n))throw Error(i+r+" invalid: "+n);k=n}}return{DECIMAL_PLACES:_,ROUNDING_MODE:P,EXPONENTIAL_AT:[C,L],RANGE:[I,x],CRYPTO:D,STRICT:B,MODULO_MODE:U,POW_PRECISION:M,FORMAT:F,ALPHABET:k}},G.isBigNumber=function(e){if(!q(e))return!1;var r,n,i=e.c,u=e.e,f=e.s;if("[object Array]"!={}.toString.call(i))return null===i&&null===u&&(null===f||1===f||-1===f);if(1!==f&&-1!==f||u<-l||u>l||u!==t(u))return!1;if(0===i[0])return 0===u&&1===i.length;if((r=(u+1)%s)<1&&(r+=s),String(i[0]).length!==r)return!1;for(r=0;r<i.length;r++)if((n=i[r])<0||n>=o||n!==t(n))return!1;return 0!==n},G.maximum=G.max=function(){return z(arguments,-1)},G.minimum=G.min=function(){return z(arguments,1)},G.random=function(){var e=9007199254740992,r=Math.random()*e&2097151?function(){return t(Math.random()*e)}:function(){return 8388608*(1073741824*Math.random()|0)+(8388608*Math.random()|0)};return function(e){var o,u,c,a,h,g=0,w=[],d=new G(T);if(null==e?e=_:p(e,0,l),a=n(e/s),D)if(crypto.getRandomValues){for(o=crypto.getRandomValues(new Uint32Array(a*=2));g<a;)(h=131072*o[g]+(o[g+1]>>>11))>=9e15?(u=crypto.getRandomValues(new Uint32Array(2)),o[g]=u[0],o[g+1]=u[1]):(w.push(h%1e14),g+=2);g=a/2}else{if(!crypto.randomBytes)throw D=!1,Error(i+"crypto unavailable");for(o=crypto.randomBytes(a*=7);g<a;)(h=281474976710656*(31&o[g])+1099511627776*o[g+1]+4294967296*o[g+2]+16777216*o[g+3]+(o[g+4]<<16)+(o[g+5]<<8)+o[g+6])>=9e15?crypto.randomBytes(7).copy(o,g):(w.push(h%1e14),g+=7);g=a/7}if(!D)for(;g<a;)(h=r())<9e15&&(w[g++]=h%1e14);for(a=w[--g],e%=s,a&&e&&(h=f[s-e],w[g]=t(a/h)*h);0===w[g];w.pop(),g--);if(g<0)w=[c=0];else{for(c=-1;0===w[0];w.splice(0,1),c-=s);for(g=1,h=w[0];h>=10;h/=10,g++);g<s&&(c-=s-g)}return d.e=c,d.c=w,d}}(),G.sum=function(){for(var e=1,r=arguments,n=new G(r[0]);e<r.length;)n=n.plus(r[e++]);return n},b=function(e,r){var n,t,i;for((n=r.indexOf("."))>-1&&(r=r.replace(".","")),(t=r.search(/e/i))>0?(n<0&&(n=t),n+=+r.slice(t+1),r=r.substring(0,t)):n<0&&(n=r.length),t=0;48===r.charCodeAt(t);t++);for(i=r.length;48===r.charCodeAt(--i););if(r=r.slice(t,++i))if(i-=t,(n=n-t-1)>x)e.c=e.e=null;else if(n<I)e.c=[e.e=0];else{if(e.e=n,e.c=[],t=(n+1)%s,n<0&&(t+=s),t<i){for(t&&e.c.push(+r.slice(0,t)),i-=s;t<i;)e.c.push(+r.slice(t,t+=s));t=s-(r=r.slice(t)).length}else t-=i;for(;t--;r+="0");e.c.push(+r)}else e.c=[e.e=0]},y=function(e,r,n,t){var o,s,u=k.slice(0,n),f=0,c="",l=!1,a=!1,h=!1;for(e.s=45===r.charCodeAt(0)?(r=r.slice(1),-1):1,s=r.length;f<s;f++){if(o=r.charAt(f),!(u.indexOf(o)>=0)){if("_"==o){if(a&&f+1<s){a=!1;continue}}else if("."==o){if(0==f||!l&&a){if(f+1==s)break;0==f&&(c="0"),c+=o,l=!0,a=!1;continue}}else if(!h&&(r==r.toUpperCase()&&u==u.toLowerCase()&&(r=r.toLowerCase())||r==r.toLowerCase()&&u==u.toUpperCase()&&(r=r.toUpperCase()))){f=-1,c="",h=!0,l=a=!1;continue}if(B)throw Error(i+"Not a base "+n+" number: "+t);return void(e.s=e.c=e.e=null)}c+=o,a=!0}b(e,O(c,n,10,e.s))},O=function(){var e="0123456789";function r(e,r,n,t){for(var i,o,s=[0],u=0,f=e.length;u<f;){for(o=s.length;o--;s[o]*=r);for(s[0]+=t.indexOf(e.charAt(u++)),i=0;i<s.length;i++)s[i]>n-1&&(null==s[i+1]&&(s[i+1]=0),s[i+1]+=s[i]/n|0,s[i]%=n)}return s.reverse()}return function(n,t,i,o,s){var u,f,c,l,a,g,p,w,d=n.indexOf("."),v=_,O=P;for(d>=0&&(l=M,M=0,n=n.replace(".",""),g=(w=new G(t)).pow(n.length-d),M=l,w.c=r(m(h(g.c),g.e,"0"),10,i,e),w.e=w.c.length),c=l=(p=r(n,t,i,s?(u=k,e):(u=e,k))).length;0==p[--l];p.pop());if(!p[0])return u.charAt(0);if(d<0?--c:(g.c=p,g.e=c,g.s=o,p=(g=N(g,w,v,O,i)).c,a=g.r,c=g.e),d=p[f=c+v+1],l=i/2,a=a||f<0||null!=p[f+1],a=O<4?(null!=d||a)&&(0==O||O==(g.s<0?3:2)):d>l||d==l&&(4==O||a||6==O&&1&p[f-1]||O==(g.s<0?8:7)),f<1||!p[0])n=a?m(u.charAt(1),-v,u.charAt(0)):u.charAt(0);else{if(p.length=f,a)for(--i;++p[--f]>i;)p[f]=0,f||(++c,p=[1].concat(p));for(l=p.length;!p[--l];);for(d=0,n="";d<=l;n+=u.charAt(p[d++]));n=m(n,c,u.charAt(0))}return n}}(),N=function(){function e(e,r,n){var t,i,o,s,u=0,f=e.length,l=r%c,a=r/c|0;for(e=e.slice();f--;)u=((i=l*(o=e[f]%c)+(t=a*o+(s=e[f]/c|0)*l)%c*c+u)/n|0)+(t/c|0)+a*s,e[f]=i%n;return u&&(e=[u].concat(e)),e}function r(e,r,n,t){var i,o;if(n!=t)o=n>t?1:-1;else for(i=o=0;i<n;i++)if(e[i]!=r[i]){o=e[i]>r[i]?1:-1;break}return o}function n(e,r,n,t){for(var i=0;n--;)e[n]-=i,i=e[n]<r[n]?1:0,e[n]=i*t+e[n]-r[n];for(;!e[0]&&e.length>1;e.splice(0,1));}return function(i,u,f,c,l){var h,g,p,w,d,m,v,N,O,b,y,E,A,S,R,T,_,P=i.s==u.s?1:-1,C=i.c,L=u.c;if(!(C&&C[0]&&L&&L[0]))return new G(i.s&&u.s&&(C?!L||C[0]!=L[0]:L)?C&&0==C[0]||!L?0*P:P/0:NaN);for(O=(N=new G(P)).c=[],P=f+(g=i.e-u.e)+1,l||(l=o,g=a(i.e/s)-a(u.e/s),P=P/s|0),p=0;L[p]==(C[p]||0);p++);if(L[p]>(C[p]||0)&&g--,P<0)O.push(1),w=!0;else{for(S=C.length,T=L.length,p=0,P+=2,(d=t(l/(L[0]+1)))>1&&(L=e(L,d,l),C=e(C,d,l),T=L.length,S=C.length),A=T,y=(b=C.slice(0,T)).length;y<T;b[y++]=0);_=L.slice(),_=[0].concat(_),R=L[0],L[1]>=l/2&&R++;do{if(d=0,(h=r(L,b,T,y))<0){if(E=b[0],T!=y&&(E=E*l+(b[1]||0)),(d=t(E/R))>1)for(d>=l&&(d=l-1),v=(m=e(L,d,l)).length,y=b.length;1==r(m,b,v,y);)d--,n(m,T<v?_:L,v,l),v=m.length,h=1;else 0==d&&(h=d=1),v=(m=L.slice()).length;if(v<y&&(m=[0].concat(m)),n(b,m,y,l),y=b.length,-1==h)for(;r(L,b,T,y)<1;)d++,n(b,T<y?_:L,y,l),y=b.length}else 0===h&&(d++,b=[0]);O[p++]=d,b[0]?b[y++]=C[A]||0:(b=[C[A]],y=1)}while((A++<S||null!=b[0])&&P--);w=null!=b[0],O[0]||O.splice(0,1)}if(l==o){for(p=1,P=O[0];P>=10;P/=10,p++);V(N,f+(N.e=p+g*s-1)+1,c,w)}else N.e=g,N.r=+w;return N}}(),R.absoluteValue=R.abs=function(){var e=new G(this);return e.s<0&&(e.s=1),e},R.comparedTo=function(e,r){return g(this,new G(e,r))},R.decimalPlaces=R.dp=function(e,r){var n,t,i,o=this;if(null!=e)return p(e,0,l),null==r?r=P:p(r,0,8),V(new G(o),e+o.e+1,r);if(!(n=o.c))return null;if(t=((i=n.length-1)-a(this.e/s))*s,i=n[i])for(;i%10==0;i/=10,t--);return t<0&&(t=0),t},R.dividedBy=R.div=function(e,r){return N(this,new G(e,r),_,P)},R.dividedToIntegerBy=R.idiv=function(e,r){return N(this,new G(e,r),0,1)},R.exponentiatedBy=R.pow=function(e,r){var o,u,f,c,l,a,h,g,p=this;if((e=new G(e)).c&&!e.isInteger())throw Error(i+"Exponent not an integer: "+$(e));if(null!=r&&(r=new G(r)),l=e.e>14,!p.c||!p.c[0]||1==p.c[0]&&!p.e&&1==p.c.length||!e.c||!e.c[0])return g=new G(Math.pow(+$(p),l?e.s*(2-w(e)):+$(e))),r?g.mod(r):g;if(a=e.s<0,r){if(r.c?!r.c[0]:!r.s)return new G(NaN);(u=!a&&p.isInteger()&&r.isInteger())&&(p=p.mod(r))}else{if(e.e>9&&(p.e>0||p.e<-1||(0==p.e?p.c[0]>1||l&&p.c[1]>=24e7:p.c[0]<8e13||l&&p.c[0]<=9999975e7)))return c=p.s<0&&w(e)?-0:0,p.e>-1&&(c=1/c),new G(a?1/c:c);M&&(c=n(M/s+2))}for(l?(o=new G(.5),a&&(e.s=1),h=w(e)):h=(f=Math.abs(+$(e)))%2,g=new G(T);;){if(h){if(!(g=g.times(p)).c)break;c?g.c.length>c&&(g.c.length=c):u&&(g=g.mod(r))}if(f){if(0===(f=t(f/2)))break;h=f%2}else if(V(e=e.times(o),e.e+1,1),e.e>14)h=w(e);else{if(0===(f=+$(e)))break;h=f%2}p=p.times(p),c?p.c&&p.c.length>c&&(p.c.length=c):u&&(p=p.mod(r))}return u?g:(a&&(g=T.div(g)),r?g.mod(r):c?V(g,M,P,void 0):g)},R.integerValue=function(e){var r=new G(this);return null==e?e=P:p(e,0,8),V(r,r.e+1,e)},R.isEqualTo=R.eq=function(e,r){return 0===g(this,new G(e,r))},R.isFinite=function(){return!!this.c},R.isGreaterThan=R.gt=function(e,r){return g(this,new G(e,r))>0},R.isGreaterThanOrEqualTo=R.gte=function(e,r){return 1===(r=g(this,new G(e,r)))||0===r},R.isInteger=function(){return!!this.c&&a(this.e/s)>this.c.length-2},R.isLessThan=R.lt=function(e,r){return g(this,new G(e,r))<0},R.isLessThanOrEqualTo=R.lte=function(e,r){return-1===(r=g(this,new G(e,r)))||0===r},R.isNaN=function(){return!this.s},R.isNegative=function(){return this.s<0},R.isPositive=function(){return this.s>0},R.isZero=function(){return!!this.c&&0==this.c[0]},R.minus=function(e,r){var n,t,i,u,f=this,c=f.s;if(r=(e=new G(e,r)).s,!c||!r)return new G(NaN);if(c!=r)return e.s=-r,f.plus(e);var l=f.e/s,h=e.e/s,g=f.c,p=e.c;if(!l||!h){if(!g||!p)return g?(e.s=-r,e):new G(p?f:NaN);if(!g[0]||!p[0])return p[0]?(e.s=-r,e):new G(g[0]?f:3==P?-0:0)}if(l=a(l),h=a(h),g=g.slice(),c=l-h){for((u=c<0)?(c=-c,i=g):(h=l,i=p),i.reverse(),r=c;r--;i.push(0));i.reverse()}else for(t=(u=(c=g.length)<(r=p.length))?c:r,c=r=0;r<t;r++)if(g[r]!=p[r]){u=g[r]<p[r];break}if(u&&(i=g,g=p,p=i,e.s=-e.s),(r=(t=p.length)-(n=g.length))>0)for(;r--;g[n++]=0);for(r=o-1;t>c;){if(g[--t]<p[t]){for(n=t;n&&!g[--n];g[n]=r);--g[n],g[t]+=o}g[t]-=p[t]}for(;0==g[0];g.splice(0,1),--h);return g[0]?H(e,g,h):(e.s=3==P?-1:1,e.c=[e.e=0],e)},R.modulo=R.mod=function(e,r){var n,t,i=this;return e=new G(e,r),!i.c||!e.s||e.c&&!e.c[0]?new G(NaN):!e.c||i.c&&!i.c[0]?new G(i):(9==U?(t=e.s,e.s=1,n=N(i,e,0,3),e.s=t,n.s*=t):n=N(i,e,0,U),(e=i.minus(n.times(e))).c[0]||1!=U||(e.s=i.s),e)},R.multipliedBy=R.times=function(e,r){var n,t,i,u,f,l,h,g,p,w,d,m,v,N,O,b=this,y=b.c,E=(e=new G(e,r)).c;if(!(y&&E&&y[0]&&E[0]))return!b.s||!e.s||y&&!y[0]&&!E||E&&!E[0]&&!y?e.c=e.e=e.s=null:(e.s*=b.s,y&&E?(e.c=[0],e.e=0):e.c=e.e=null),e;for(t=a(b.e/s)+a(e.e/s),e.s*=b.s,(h=y.length)<(w=E.length)&&(v=y,y=E,E=v,i=h,h=w,w=i),i=h+w,v=[];i--;v.push(0));for(N=o,O=c,i=w;--i>=0;){for(n=0,d=E[i]%O,m=E[i]/O|0,u=i+(f=h);u>i;)n=((g=d*(g=y[--f]%O)+(l=m*g+(p=y[f]/O|0)*d)%O*O+v[u]+n)/N|0)+(l/O|0)+m*p,v[u--]=g%N;v[u]=n}return n?++t:v.splice(0,1),H(e,v,t)},R.negated=function(){var e=new G(this);return e.s=-e.s||null,e},R.plus=function(e,r){var n,t=this,i=t.s;if(r=(e=new G(e,r)).s,!i||!r)return new G(NaN);if(i!=r)return e.s=-r,t.minus(e);var u=t.e/s,f=e.e/s,c=t.c,l=e.c;if(!u||!f){if(!c||!l)return new G(i/0);if(!c[0]||!l[0])return l[0]?e:new G(c[0]?t:0*i)}if(u=a(u),f=a(f),c=c.slice(),i=u-f){for(i>0?(f=u,n=l):(i=-i,n=c),n.reverse();i--;n.push(0));n.reverse()}for((i=c.length)-(r=l.length)<0&&(n=l,l=c,c=n,r=i),i=0;r;)i=(c[--r]=c[r]+l[r]+i)/o|0,c[r]=o===c[r]?0:c[r]%o;return i&&(c=[i].concat(c),++f),H(e,c,f)},R.precision=R.sd=function(e,r){var n,t,i,o=this;if(null!=e&&e!==!!e)return p(e,1,l),null==r?r=P:p(r,0,8),V(new G(o),e,r);if(!(n=o.c))return null;if(t=(i=n.length-1)*s+1,i=n[i]){for(;i%10==0;i/=10,t--);for(i=n[0];i>=10;i/=10,t++);}return e&&o.e+1>t&&(t=o.e+1),t},R.shiftedBy=function(e){return p(e,-u,u),this.times("1e"+e)},R.squareRoot=R.sqrt=function(){var e,r,n,t,i,o=this,s=o.c,u=o.s,f=o.e,c=_+4,l=new G("0.5");if(1!==u||!s||!s[0])return new G(!u||u<0&&(!s||s[0])?NaN:s?o:1/0);if(0==(u=Math.sqrt(+$(o)))||u==1/0?(((r=h(s)).length+f)%2==0&&(r+="0"),u=Math.sqrt(+r),f=a((f+1)/2)-(f<0||f%2),n=new G(r=u==1/0?"5e"+f:(r=u.toExponential()).slice(0,r.indexOf("e")+1)+f)):n=new G(u+""),n.c[0])for((u=(f=n.e)+c)<3&&(u=0);;)if(i=n,n=l.times(i.plus(N(o,i,c,1))),h(i.c).slice(0,u)===(r=h(n.c)).slice(0,u)){if(n.e<f&&--u,"9999"!=(r=r.slice(u-3,u+1))&&(t||"4999"!=r)){+r&&(+r.slice(1)||"5"!=r.charAt(0))||(V(n,n.e+_+2,1),e=!n.times(n).eq(o));break}if(!t&&(V(i,i.e+_+2,0),i.times(i).eq(o))){n=i;break}c+=4,u+=4,t=1}return V(n,n.e+_+1,P,e)},R.toExponential=function(e,r){return null!=e&&(p(e,0,l),e++),j(this,e,r,1)},R.toFixed=function(e,r){return null!=e&&(p(e,0,l),e=e+this.e+1),j(this,e,r)},R.toFormat=function(e,r,n){var t,o=this;if(null==n)null!=e&&r&&"object"==typeof r?(n=r,r=null):e&&"object"==typeof e?(n=e,e=r=null):n=F;else if("object"!=typeof n)throw Error(i+"Argument not an object: "+n);if(t=o.toFixed(e,r),o.c){var s,u=t.split("."),f=+n.groupSize,c=+n.secondaryGroupSize,l=n.groupSeparator||"",a=u[0],h=u[1],g=o.s<0,p=g?a.slice(1):a,w=p.length;if(c&&(s=f,f=c,c=s,w-=s),f>0&&w>0){for(s=w%f||f,a=p.substr(0,s);s<w;s+=f)a+=l+p.substr(s,f);c>0&&(a+=l+p.slice(s)),g&&(a="-"+a)}t=h?a+(n.decimalSeparator||"")+((c=+n.fractionGroupSize)?h.replace(new RegExp("\\d{"+c+"}\\B","g"),"$&"+(n.fractionGroupSeparator||"")):h):a}return(n.prefix||"")+t+(n.suffix||"")},R.toFraction=function(e){var r,n,t,o,u,c,l,a,g,p,w,d,m=this,v=m.c;if(null!=e&&(!(l=new G(e)).isInteger()&&(l.c||1!==l.s)||l.lt(T)))throw Error(i+"Argument "+(l.isInteger()?"out of range: ":"not an integer: ")+$(l));if(!v)return[new G(m.s||0),new G(0)];for(r=new G(T),g=n=new G(T),t=a=new G(T),d=h(v),u=r.e=d.length-m.e-1,r.c[0]=f[(c=u%s)<0?s+c:c],e=!e||l.comparedTo(r)>0?u>0?r:g:l,c=x,x=1/0,l=new G(d),a.c[0]=0;p=N(l,r,0,1),1!=(o=n.plus(p.times(t))).comparedTo(e);)n=t,t=o,g=a.plus(p.times(o=g)),a=o,r=l.minus(p.times(o=r)),l=o;return o=N(e.minus(n),t,0,1),a=a.plus(o.times(g)),n=n.plus(o.times(t)),a.s=g.s=m.s,w=N(g,t,u*=2,P).minus(m).abs().comparedTo(N(a,n,u,P).minus(m).abs())<1?[g,t]:[a,n],x=c,w},R.toNumber=function(){return+$(this)},R.toObject=function(){var e=this;return{c:e.c?e.c.slice():null,e:e.e,s:e.s}},R.toPrecision=function(e,r){return null!=e&&p(e,1,l),j(this,e,r,2)},R.toString=function(e){var r,n=this,t=n.s,i=n.e;return null===i?t?(r="Infinity",t<0&&(r="-"+r)):r="NaN":(null==e?r=i<=C||i>=L?d(h(n.c),i):m(h(n.c),i,"0"):(p(e,2,k.length,"Base"),r=O(m(h(n.c),i,"0"),10,e,t,!0)),t<0&&n.c[0]&&(r="-"+r)),r},R.valueOf=R.toJSON=function(){return $(this)},R._isBigNumber=!0,null!=v&&G.set(v);return G}(),r=/^-?(?:\d+(?:\.\d*)?|\.\d+)(?:e[+-]?\d+)?$/i,n=Math.ceil,t=Math.floor,i="[BigNumber Error] ",o=1e14,s=14,u=9007199254740991,f=[1,10,100,1e3,1e4,1e5,1e6,1e7,1e8,1e9,1e10,1e11,1e12,1e13],c=1e7,l=1e9;function a(e){var r=0|e;return e>0||e===r?r:r-1}function h(e){for(var r,n,t=1,i=e.length,o=e[0]+"";t<i;){for(r=e[t++]+"",n=s-r.length;n--;r="0"+r);o+=r}for(i=o.length;48===o.charCodeAt(--i););return o.slice(0,i+1||1)}function g(e,r){var n,t,i=e.c,o=r.c,s=e.s,u=r.s,f=e.e,c=r.e;if(!s||!u)return null;if(n=i&&!i[0],t=o&&!o[0],n||t)return n?t?0:-u:s;if(s!=u)return s;if(n=s<0,t=f==c,!i||!o)return t?0:!i^n?1:-1;if(!t)return f>c^n?1:-1;for(u=(f=i.length)<(c=o.length)?f:c,s=0;s<u;s++)if(i[s]!=o[s])return i[s]>o[s]^n?1:-1;return f==c?0:f>c^n?1:-1}function p(e,r,n,o){if(e<r||e>n||e!==t(e))throw Error(i+(o||"Argument")+("number"==typeof e?e<r||e>n?" out of range: ":" not an integer: ":" not a primitive number: ")+String(e))}function w(e){var r=e.c.length-1;return a(e.e/s)==r&&e.c[r]%2!=0}function d(e,r){return(e.length>1?e.charAt(0)+"."+e.slice(1):e)+(r<0?"e":"e+")+r}function m(e,r,n){var t,i;if(r<0){for(i=n+".";++r;i+=n);e=i+e}else if(++r>(t=e.length)){for(i=n,r-=t;--r;i+=n);e+=i}else r<t&&(e=e.slice(0,r)+"."+e.slice(r));return e}("undefined"!=typeof globalThis?globalThis:"undefined"!=typeof window?window:self).BigNumber=e}();  
+ </script>
   
 </body>
 </html>
-
-
